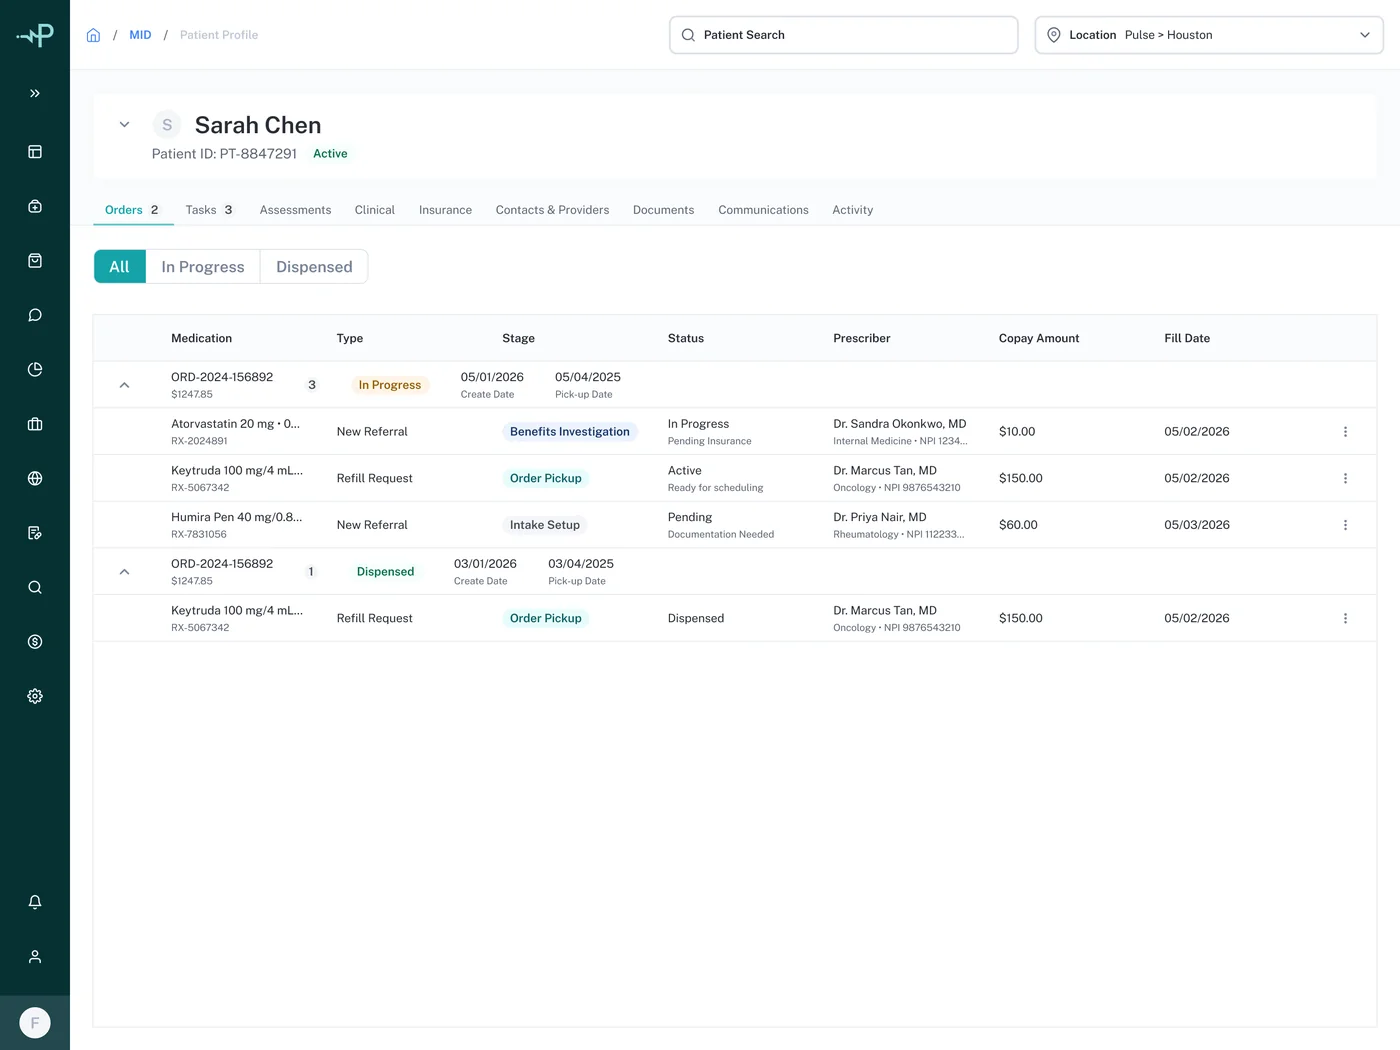
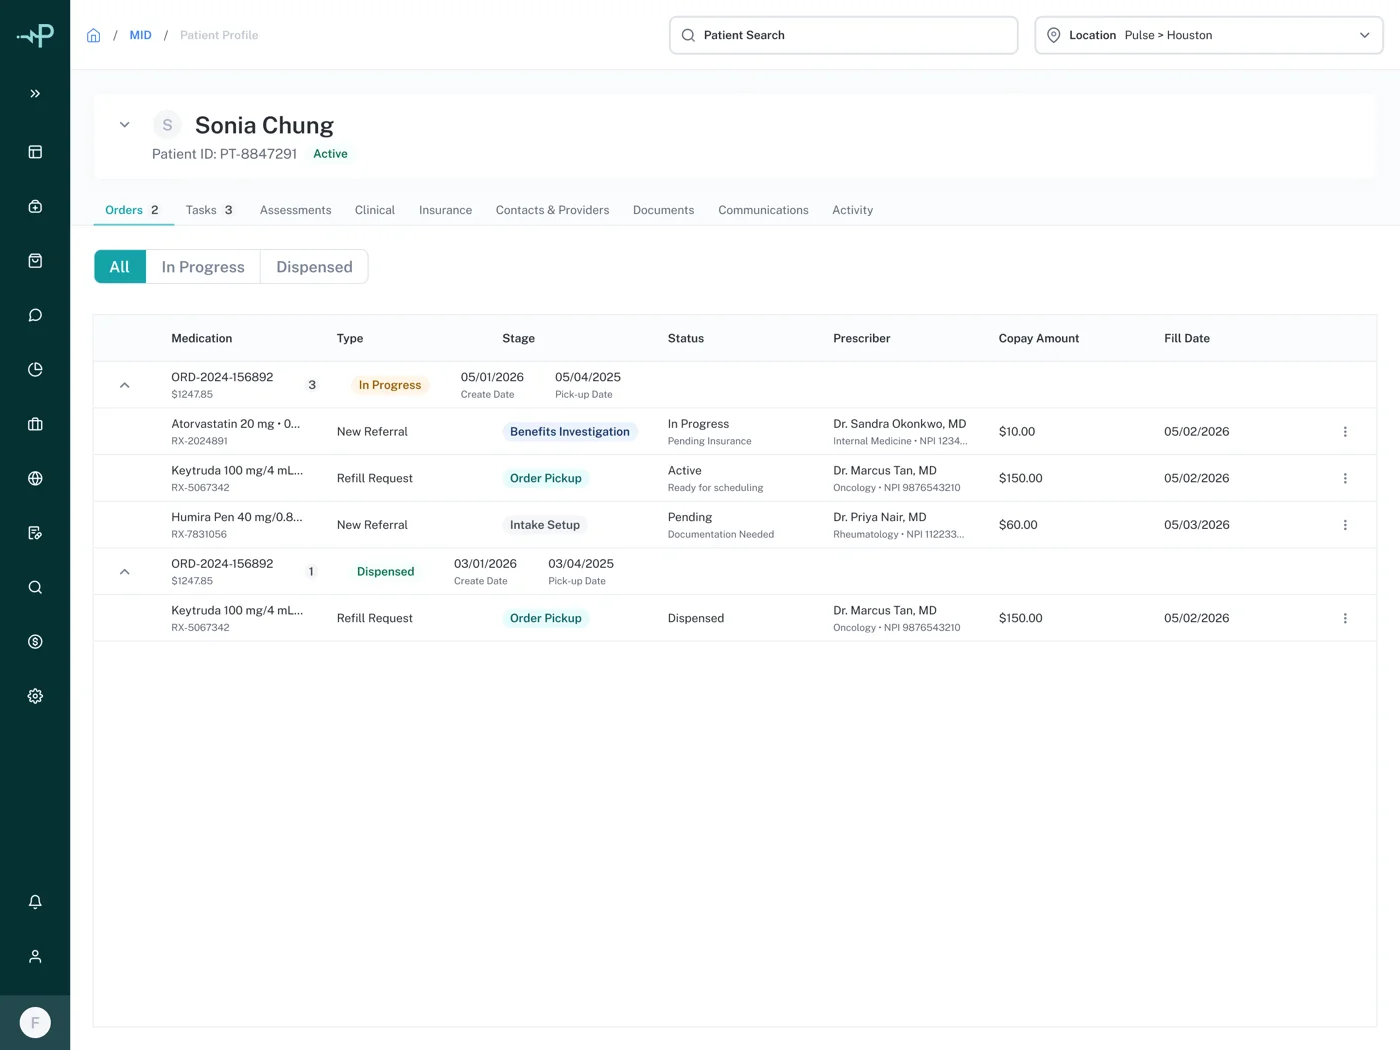
content: product images use Sonia Chung
Swaps the Patient Profile Orders view to the Figma re-export with
Sonia Chung and updates its alt text. The Assessment image stays on
Sarah Chen for now, pending a filled-state re-export with the
elevated-BP alert visible.

diff --git a/onepulse-connect.html b/onepulse-connect.html
@@ -148,7 +148,7 @@
         <div class="case-image-stack">
           <figure class="case-figure">
             <div class="case-visual">
-              <img class="case-visual__image case-visual__image--patientprofile" src="images/ds_patientprofile_example.webp" alt="OnePulse Connect Patient Profile Orders view for patient Sarah Chen, showing a medications table with status chips like In Progress, Active, Pending, and Dispensed alongside prescriber and copay details." loading="lazy" data-lightbox-src="images/large/ds-patientprofile-example.webp" tabindex="0" role="button">
+              <img class="case-visual__image case-visual__image--patientprofile" src="images/ds_patientprofile_example.webp" alt="OnePulse Connect Patient Profile Orders view for patient Sonia Chung, showing a medications table with status chips like In Progress, Active, Pending, and Dispensed alongside prescriber and copay details." loading="lazy" data-lightbox-src="images/large/ds-patientprofile-example.webp" tabindex="0" role="button">
             </div>
             <figcaption class="case-figure__caption">Patient Profile, Orders view. Designed from the system and in development by engineering when I left.</figcaption>
           </figure>
